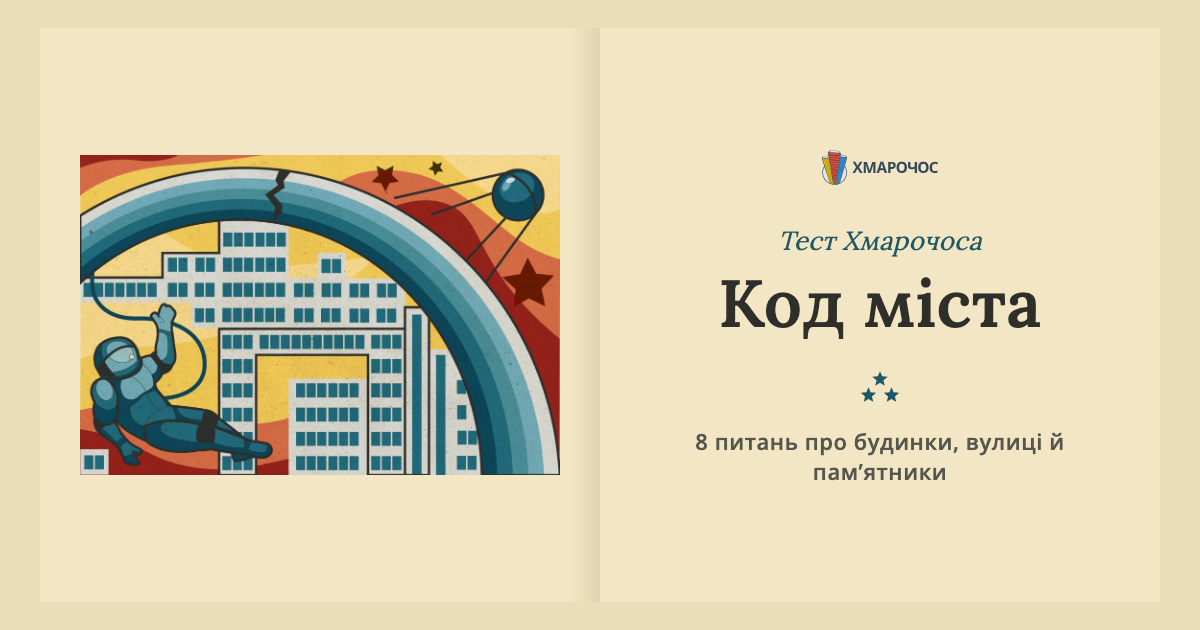
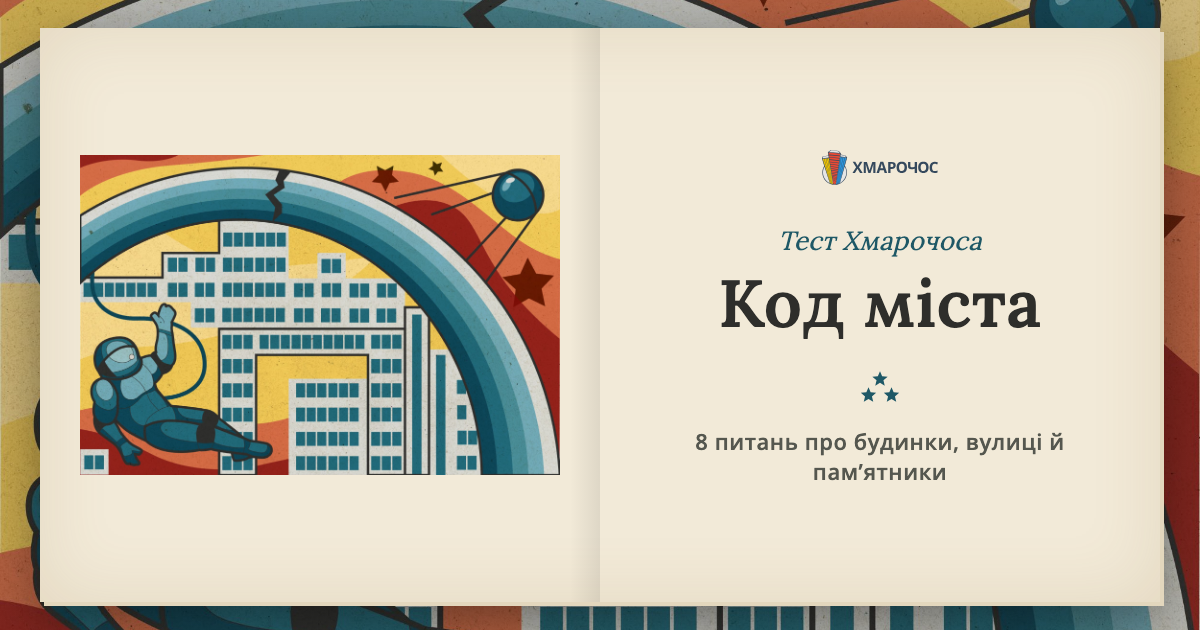
Ілюстрація як тло всіх екранів, книжковий папір із краєм аркушів, без анімацій зсуву й автопрокрутки; олівцеве перекреслення хибної відповіді

Changed region(s): [[0.0, 0.0, 1.0, 1.0]]

diff --git a/app/skins/book/book.css b/app/skins/book/book.css
@@ -3,8 +3,21 @@
    Шрифти тільки сайту Хмарочоса: Lora (набір), Open Sans (інтерфейс).
    Розрядка скрізь додатна, кеглі книжкові. */
 
+/* тло всіх екранів — ілюстрація з обкладинки, книжка лежить поверх */
+html:has(.book) {
+  background: #2e2e2b;
+}
 body:has(.book) {
-  background: #ebddb8;
+  background: transparent;
+}
+body:has(.book)::after {
+  content: "";
+  position: fixed;
+  inset: 0;
+  z-index: -1;
+  background:
+    linear-gradient(rgba(46, 46, 43, 0.22), rgba(46, 46, 43, 0.22)),
+    url("/art/cover.jpg") center / cover no-repeat;
 }
 
 /* паперове зерно під текстом, ледь помітне */
@@ -20,8 +33,9 @@ body:has(.book)::before {
 }
 
 .book {
-  --paper: #f3e6c4;
-  --margin: #ebddb8;
+  /* книжковий офсетний папір: світлий, трохи пожовклий */
+  --paper: #f2ead8;
+  --paper-edge: #e3d7bd;
   --ink: #2e2e2b;
   --ink-2: #55574f;
   --hair: rgba(46, 46, 43, 0.2);
@@ -135,9 +149,21 @@ body:has(.book)::before {
 }
 
 /* ——— розворот: титул і результат ——— */
+.book.spread,
+.book.sheet {
+  background-color: var(--paper);
+  /* пожовклість по краях аркуша і стос сторінок збоку */
+  box-shadow:
+    inset 0 0 70px rgba(140, 105, 50, 0.14),
+    1px 1px 0 var(--paper-edge),
+    2px 2px 0 var(--paper),
+    3px 3px 0 var(--paper-edge),
+    4px 4px 0 var(--paper),
+    5px 5px 0 #d6c9ad,
+    0 18px 50px rgba(0, 0, 0, 0.4);
+}
 .book.spread {
-  min-height: 100dvh;
-  background: var(--paper);
+  margin: 12px;
 }
 .book .leaf {
   padding: 20px;
@@ -248,11 +274,10 @@ body:has(.book)::before {
 
 /* ——— аркуш питання ——— */
 .book.sheet {
-  min-height: 100dvh;
+  min-height: calc(100dvh - 24px);
   max-width: 720px;
-  margin: 0 auto;
-  padding: 16px 20px 28px;
-  background: var(--paper);
+  margin: 12px;
+  padding: 16px 18px 28px;
   display: flex;
   flex-direction: column;
 }
@@ -388,6 +413,10 @@ body:has(.book)::before {
   stroke-width: 2;
   stroke-linecap: round;
 }
+.book .pencil.strike path {
+  stroke: var(--brick);
+  stroke-width: 1.8;
+}
 
 .book .answer {
   padding-top: 4px;
@@ -466,32 +495,15 @@ body:has(.book)::before {
   color: var(--ink-2);
 }
 
-/* ——— рух ——— */
+/* ——— рух: лише олівець, решта з'являється одразу, як на друкованій сторінці ——— */
 @media (prefers-reduced-motion: no-preference) {
-  .book.sheet .page {
-    animation: turn 0.22s ease-out both;
-  }
-  .book .answer {
-    animation: ink 0.3s ease-out both;
-  }
   .book .pencil path {
     stroke-dasharray: 190;
     stroke-dashoffset: 190;
-    animation: draw 0.5s 0.1s ease-out forwards;
+    animation: draw 0.6s 0.15s ease-out forwards;
   }
-  .book.spread .recto > * {
-    animation: ink 0.4s ease-out both;
-  }
-}
-@keyframes turn {
-  from {
-    opacity: 0;
-    transform: translateX(16px);
-  }
-}
-@keyframes ink {
-  from {
-    opacity: 0;
+  .book .pencil.strike path:nth-child(2) {
+    animation-delay: 0.45s;
   }
 }
 @keyframes draw {
@@ -503,8 +515,8 @@ body:has(.book)::before {
 /* ——— десктоп ——— */
 @media (min-width: 720px) {
   .book.sheet {
-    margin: 32px auto;
-    min-height: calc(100dvh - 64px);
+    margin: 40px auto;
+    min-height: calc(100dvh - 80px);
     padding: 26px 64px 30px;
   }
   .book .page {
@@ -540,8 +552,8 @@ body:has(.book)::before {
     display: grid;
     grid-template-columns: 1fr 1fr;
     max-width: 1180px;
-    min-height: calc(100dvh - 64px);
-    margin: 32px auto;
+    min-height: calc(100dvh - 80px);
+    margin: 40px auto;
   }
   .book .verso {
     position: relative;

diff --git a/app/skins/book/BookSkin.tsx b/app/skins/book/BookSkin.tsx
@@ -14,7 +14,6 @@ import { ArrowIcon } from "./icons";
 
 const COVER_ALT = "Ілюстрація: місто з аркою, що тріснула, космонавт і супутник";
 const letter = (k: string) => `${k.toLowerCase()})`;
-const reduced = () => typeof window !== "undefined" && window.matchMedia("(prefers-reduced-motion: reduce)").matches;
 
 export function Logo() {
   return (
@@ -57,6 +56,14 @@ const PencilRing = () => (
   </svg>
 );
 
+/** «Олівцеве» перекреслення хибної букви — червоним олівцем перевіряльника. */
+const PencilStrike = () => (
+  <svg className="pencil strike" viewBox="0 0 64 44" aria-hidden>
+    <path d="M12 34 C 22 26, 36 17, 54 9" />
+    <path d="M14 11 C 26 18, 40 27, 52 35" />
+  </svg>
+);
+
 /** Клавіші: 1–4 або а/б/в/г — відповідь, Enter — далі. */
 function useKeys(quiz: QuizApi) {
   const ref = useRef(quiz);
@@ -93,17 +100,11 @@ function Sheet({ quiz }: { quiz: QuizApi }) {
   const promptRef = useRef<HTMLHeadingElement>(null);
   const answerRef = useRef<HTMLElement>(null);
 
-  // фокус і прокрутка: нове питання — на питання; відповідь — до пояснення
+  // фокус без прокрутки: після відповіді сторінка лишається на місці,
+  // щоб було видно олівцеві позначки; пояснення читач гортає сам
   useEffect(() => {
-    if (screen === "question") {
-      promptRef.current?.focus({ preventScroll: true });
-    } else if (screen === "reveal") {
-      const el = answerRef.current;
-      requestAnimationFrame(() => {
-        el?.scrollIntoView({ behavior: reduced() ? "auto" : "smooth", block: "start" });
-        el?.focus({ preventScroll: true });
-      });
-    }
+    if (screen === "question") promptRef.current?.focus({ preventScroll: true });
+    else if (screen === "reveal") answerRef.current?.focus({ preventScroll: true });
   }, [screen, idx]);
 
   return (
@@ -141,6 +142,7 @@ function Sheet({ quiz }: { quiz: QuizApi }) {
                 <span className="k">
                   {letter(o.key)}
                   {state === "right" && <PencilRing />}
+                  {state === "wrong" && <PencilStrike />}
                 </span>
                 <span className="t">
                   {o.text}

diff --git a/og-src/og.html b/og-src/og.html
@@ -11,8 +11,8 @@
 @font-face { font-family: "Open Sans"; src: url("../public/fonts/opensans.woff2") format("woff2"); font-weight: 300 800; }
 @font-face { font-family: "Lora"; src: url("../public/fonts/lora.woff2") format("woff2"); font-weight: 400 700; }
 * { box-sizing: border-box; }
-body { margin: 0; width: 1200px; height: 630px; overflow: hidden; background: #EBDDB8; color: #2E2E2B; font-family: "Lora", serif; }
-.spread { position: absolute; inset: 28px 40px; display: grid; grid-template-columns: 1fr 1fr; background: #F3E6C4; }
+body { margin: 0; width: 1200px; height: 630px; overflow: hidden; background: linear-gradient(rgba(46,46,43,.22), rgba(46,46,43,.22)), url("../public/art/cover.jpg") center / cover; color: #2E2E2B; font-family: "Lora", serif; }
+.spread { position: absolute; inset: 28px 40px; display: grid; grid-template-columns: 1fr 1fr; background: #F2EAD8; box-shadow: inset 0 0 70px rgba(140,105,50,.14), 4px 4px 0 #E3D7BD, 0 18px 50px rgba(0,0,0,.4); }
 .verso { position: relative; display: flex; align-items: center; padding: 40px; }
 .verso::after { content: ""; position: absolute; top: 0; bottom: 0; right: 0; width: 30px; background: linear-gradient(to left, rgba(46,46,43,.1), transparent); }
 .verso img { display: block; width: 100%; aspect-ratio: 3/2; object-fit: cover; }

diff --git a/app/useQuiz.ts b/app/useQuiz.ts
@@ -32,10 +32,7 @@ export interface QuizApi {
 const toTop = () =>
   requestAnimationFrame(() =>
     requestAnimationFrame(() =>
-      window.scrollTo({
-        top: 0,
-        behavior: window.matchMedia("(prefers-reduced-motion: reduce)").matches ? "auto" : "smooth",
-      }),
+      window.scrollTo({ top: 0, behavior: "auto" }),
     ),
   );
 
